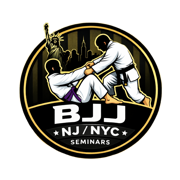
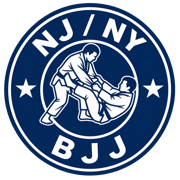
Link seminar flyers and refresh site branding

diff --git a/index.html b/index.html
@@ -6,8 +6,8 @@
   <title>BJJ SEMINARS NJ + NY</title>
   <meta property="og:title" content="BJJ SEMINARS NJ + NY" />
   <meta name="twitter:title" content="BJJ SEMINARS NJ + NY" />
-  <link rel="icon" type="image/png" sizes="32x32" href="favicon-32.png?v=20260815" />
-  <link rel="apple-touch-icon" sizes="180x180" href="apple-touch-icon.png?v=20260815" />
+  <link rel="icon" type="image/png" sizes="32x32" href="favicon-32.png?v=20260823-new-logo" />
+  <link rel="apple-touch-icon" sizes="180x180" href="apple-touch-icon.png?v=20260823-new-logo" />
 
   <script>
     (() => {
@@ -22,12 +22,12 @@
   <link rel="stylesheet" href="assets/css/base.css" />
   <link rel="stylesheet" href="assets/css/layout.css?v=20260813-logo-above-title" />
   <link rel="stylesheet" href="assets/css/pills.css?v=20260515-event-menu">
-  <link rel="stylesheet" href="assets/css/carousel.css?v=20260812-posters" />
-  <link rel="stylesheet" href="assets/css/components.css?v=20260816-header-palette-equal-size" />
+  <link rel="stylesheet" href="assets/css/carousel.css?v=20260823-instagram-links" />
+  <link rel="stylesheet" href="assets/css/components.css?v=20260823-instagram-links" />
   <link rel="stylesheet" href="assets/css/directory.css?v=20260822-responsive-segmented-nav" />
   <link rel="stylesheet" href="assets/css/theme.css?v=20260814-search-panel-2" />
 <!-- IMPORTANT: repo references main.js (no sequence) -->
-  <script type="module" src="assets/js/main.js?v=20260822-disable-page-swipe"></script>
+  <script type="module" src="assets/js/main.js?v=20260823-grappling-events-soon"></script>
 </head>
 
 <body>
@@ -38,7 +38,10 @@
       
       <div class="header__inner siteHeaderInner--title">
         <div class="headerBrand">
-          <div class="header__logoCrop"><img class="header__logoImage" src="logo.png?v=20260814-new-logo" alt="BJJ Seminars NJ + NY" /></div>
+          <div class="header__logoCrop">
+            <img class="header__logoImage header__logoImage--light" src="bjjseminars_newlogo.png?v=20260823-new-logo" alt="BJJ Seminars NJ + NY" />
+            <img class="header__logoImage header__logoImage--dark" src="bjjseminars_newlogo_darkmode.png?v=20260823-new-logo" alt="" aria-hidden="true" />
+          </div>
           <h1 class="header__title" id="viewTitle" aria-label="Current view">EVENTS</h1>
         </div>
 
@@ -58,6 +61,12 @@
 
         <!-- Header social links -->
         <div class="headerSocial" aria-label="Header social links">
+          <a class="headerSocial__link" href="https://github.com/anyjiujitsu/anyjiujitsu.github.io" target="_blank" rel="noopener" aria-label="Any Jiu-Jitsu GitHub repository">
+            <svg class="headerSocial__icon" viewBox="0 0 24 24" aria-hidden="true" focusable="false">
+              <path d="M15 22v-4a4.8 4.8 0 0 0-1-3.5c3.28-.36 6.72-1.61 6.72-7.25A5.65 5.65 0 0 0 19.22 3.3 5.3 5.3 0 0 0 19.08 0S17.9-.36 15 1.48a13.38 13.38 0 0 0-7 0C5.1-.36 3.92 0 3.92 0a5.3 5.3 0 0 0-.14 3.3 5.65 5.65 0 0 0-1.5 3.95c0 5.63 3.44 6.88 6.72 7.25A4.8 4.8 0 0 0 8 18v4"></path>
+              <path d="M8 19c-3 .92-3-1.5-4-2"></path>
+            </svg>
+          </a>
           <a class="headerSocial__link" data-customization-link="instagram" href="#" target="_blank" rel="noopener" aria-label="Instagram profile">
             <!-- Instagram (Feather-style) -->
             <svg class="headerSocial__icon" viewBox="0 0 24 24" aria-hidden="true" focusable="false">
@@ -82,7 +91,6 @@
           <button class="headerMenuButton" id="siteMenuBtn" type="button" aria-haspopup="menu" aria-expanded="false" aria-controls="siteMenu">Menu</button>
         </div>
         <div class="menu siteMenu" id="siteMenu" role="menu" aria-label="Menu" hidden>
-          <button class="menu__item siteMenu__item" type="button" role="menuitem">About</button>
           <a class="menu__item siteMenu__item" href="https://ig.me/m/bjjseminars.nj.ny" target="_blank" rel="noopener noreferrer" role="menuitem">Flyer Request</a>
           <a class="menu__item siteMenu__item" data-customization-link="support" href="https://buymeacoffee.com/jj5ben77" target="_blank" rel="noopener noreferrer" role="menuitem">Buy Me a Coffee</a>
         </div>

diff --git a/assets/js/seminarCarousel.js b/assets/js/seminarCarousel.js
@@ -28,18 +28,21 @@ export function renderSeminarCarousels(root, rows, { onSelect } = {}){
     })
     .sort(sortByDate("desc"));
 
+  const uniqueThisMonth = dedupeCarouselRows(thisMonth);
+  const uniquePrevious = dedupeCarouselRows(previous);
+
   root.replaceChildren(
     buildCarouselSection({
       eyebrow: monthStart.toLocaleDateString("en-US", { month: "long", year: "numeric" }),
       title: "This Month's Seminars",
-      rows: thisMonth,
+      rows: uniqueThisMonth,
       emptyText: "No seminars are listed for this month yet.",
       onSelect,
     }),
     buildCarouselSection({
       eyebrow: "Recent sessions",
       title: "Previous Seminars",
-      rows: previous,
+      rows: uniquePrevious,
       emptyText: "Previous seminars will appear here.",
       onSelect,
     }),
@@ -104,9 +107,16 @@ function buildCarouselSection({ eyebrow, title, rows, emptyText, onSelect }){
 
 function buildSeminarCard(row, onSelect){
   const date = row._date || parseEventDate(row.DATE);
-  const card = document.createElement("button");
+  const source = String(row.SOURCE || "").trim();
+  const card = document.createElement(source ? "a" : "button");
   card.className = "seminarCard";
-  card.type = "button";
+  if(source){
+    card.href = source;
+    card.target = "_blank";
+    card.rel = "noopener noreferrer";
+  } else {
+    card.type = "button";
+  }
 
   const instructor = String(row.FOR || row.NAME || "Seminar").trim() || "Seminar";
   const gym = String(row.GYM || row.WHERE || "Location coming soon").trim() || "Location coming soon";
@@ -115,7 +125,9 @@ function buildSeminarCard(row, onSelect){
   const location = [city, state].filter(Boolean).join(", ");
   const poster = String(row.POSTER || "").trim();
 
-  card.setAttribute("aria-label", `Find ${instructor}, ${formatFullDate(date)}`);
+  card.setAttribute("aria-label", source
+    ? `Open Instagram flyer for ${instructor}, ${formatFullDate(date)}`
+    : `Find ${instructor}, ${formatFullDate(date)}`);
   if(poster){
     card.classList.add("seminarCard--poster");
     card.innerHTML = `
@@ -127,7 +139,7 @@ function buildSeminarCard(row, onSelect){
         <span class="seminarCard__posterPlace">${escapeHtml(gym)} · ${escapeHtml(location)}</span>
       </span>
     `;
-    card.addEventListener("click", () => onSelect?.(row));
+    if(!source) card.addEventListener("click", () => onSelect?.(row));
     return card;
   }
 
@@ -145,8 +157,19 @@ function buildSeminarCard(row, onSelect){
     <span class="seminarCard__action" aria-hidden="true">View <span>→</span></span>
   `;
 
-  card.addEventListener("click", () => onSelect?.(row));
+  if(!source) card.addEventListener("click", () => onSelect?.(row));
   return card;
+}
+
+function dedupeCarouselRows(rows){
+  const seenPosters = new Set();
+  return rows.filter((row) => {
+    const poster = String(row.POSTER || "").trim().toLowerCase();
+    if(!poster) return true;
+    if(seenPosters.has(poster)) return false;
+    seenPosters.add(poster);
+    return true;
+  });
 }
 
 function wireAutoAdvance(viewport, itemCount){

diff --git a/assets/js/data.js b/assets/js/data.js
@@ -25,6 +25,15 @@ function buildSearchText(obj){
   return normalizeSearchText(Object.values(obj).join(" "));
 }
 
+function deriveEventSource(r){
+  const explicit = (r.SOURCE || r.Source || r.INSTAGRAM || r.Instagram || "").trim();
+  if(explicit) return explicit;
+
+  const poster = (r.POSTER || r.Poster || "").trim();
+  const repostMatch = poster.match(/\/reposts\/\d+-([^/]+?)\.[a-z0-9]+$/i);
+  return repostMatch ? `https://www.instagram.com/p/${repostMatch[1]}/` : "";
+}
+
 /* section: directory normalization | purpose: standardize directory rows */
 export function normalizeDirectoryRow(r){
   const STATE = (r.STATE || "").trim().toUpperCase();
@@ -32,6 +41,7 @@ export function normalizeDirectoryRow(r){
   const NAME  = (r.NAME || "").trim();
   const IG    = (r.IG || "").trim();
   const WEBSITE = (r.WEBSITE || r.Website || "").trim();
+  const ADDRESS = (r.ADDRESS || r.Address || "").trim();
   const SAT   = (r.SAT || "").trim();
   const SUN   = (r.SUN || "").trim();
   const OTA   = (r.OTA || "").trim().toUpperCase(); // Y / N / blank
@@ -42,7 +52,7 @@ export function normalizeDirectoryRow(r){
   const lat = LAT === "" ? NaN : Number(LAT);
   const lon = LON === "" ? NaN : Number(LON);
 
-  const row = { STATE, CITY, NAME, IG, WEBSITE, SAT, SUN, OTA, LAT: lat, LON: lon };
+  const row = { STATE, CITY, NAME, IG, WEBSITE, ADDRESS, SAT, SUN, OTA, LAT: lat, LON: lon };
 
   return {
     ...row,
@@ -61,12 +71,13 @@ export function normalizeEventRow(r){
   const TYPE    = (r.TYPE || r.Event || r.EVENT || "").trim();
   const DATE    = (r.DATE || r.Date || "").trim();
   const CREATED = (r.CREATED || r.Created || "").trim();
+  const SOURCE  = deriveEventSource(r);
   const LAT = (r.LAT ?? r.Lat ?? "").toString().trim();
   const LON = (r.LON ?? r.Lon ?? r.LONG ?? r.Long ?? "").toString().trim();
   const lat = LAT === "" ? NaN : Number(LAT);
   const lon = LON === "" ? NaN : Number(LON);
 
-  const row = { YEAR, STATE, CITY, GYM, TYPE, DATE, CREATED, LAT: lat, LON: lon };
+  const row = { YEAR, STATE, CITY, GYM, TYPE, DATE, CREATED, SOURCE, LAT: lat, LON: lon };
   const parsedDate = parseEventDate(DATE);
   const parsedCreated = parseCreatedDate(CREATED);
 

diff --git a/assets/js/render.js b/assets/js/render.js
@@ -246,6 +246,7 @@ function renderIndexEventRow(r){
   c3.innerHTML = `
     <div class="cell__top cell__city">${escapeHtml(r.CITY || "—")}</div>
     <div class="cell__sub cell__state">${escapeHtml(r.STATE || "—")}</div>
+    ${r.ADDRESS ? `<div class="cell__sub cell__address">${escapeHtml(r.ADDRESS)}</div>` : ""}
   `;
 
   const c4 = document.createElement("div");
@@ -301,6 +302,8 @@ function renderEventGroup(root, groupTuple, dir, isPast=false){
 function renderEventRow(r){
   const row = document.createElement("div");
   row.className = "row row--events";
+  const sourceUrl = String(r.SOURCE || "").trim();
+  const athleteName = escapeHtml(r.FOR || "—");
 
   const rawDate = String(r.DATE ?? "").trim();
   const parsed = r._date || (rawDate ? parseEventDate(rawDate) : null);
@@ -348,7 +351,7 @@ function renderEventRow(r){
       <span class="cell__eventInline">${escapeHtml(r.EVENT || "—")}</span>
       ${showNew ? `<span class="cell__newInline">*NEW</span>` : `<span class="cell__newInline">&nbsp;</span>`}
     </div>
-    <div class="cell__top cell__for">${escapeHtml(r.FOR || "—")}</div>
+    <div class="cell__top cell__for">${sourceUrl ? `<a class="cell__forLink" href="${escapeHtml(sourceUrl)}" target="_blank" rel="noopener noreferrer">${athleteName}</a>` : athleteName}</div>
     <div class="cell__sub cell__where">${escapeHtml(getWhereText(r))}</div>
   `;
 
@@ -370,6 +373,22 @@ function renderEventRow(r){
   row.appendChild(c2);
   row.appendChild(c3);
   row.appendChild(c4);
+  if(sourceUrl){
+    row.classList.add("row--source");
+    row.tabIndex = 0;
+    row.setAttribute("role", "link");
+    row.setAttribute("aria-label", `Open Instagram flyer for ${r.FOR || "seminar"}`);
+    const openSource = () => window.open(sourceUrl, "_blank", "noopener,noreferrer");
+    row.addEventListener("click", (event) => {
+      if(event.target instanceof Element && event.target.closest("a, button")) return;
+      openSource();
+    });
+    row.addEventListener("keydown", (event) => {
+      if(event.key !== "Enter") return;
+      event.preventDefault();
+      openSource();
+    });
+  }
   return row;
 }
 

diff --git a/assets/js/main.js b/assets/js/main.js
@@ -1,19 +1,19 @@
 // main.js
 // purpose: app bootstrap + data loading + render orchestration
 
-import { loadCSV, normalizeDirectoryRow, normalizeEventRow } from "./data.js?v=20260731-websites";
+import { loadCSV, normalizeDirectoryRow, normalizeEventRow } from "./data.js?v=20260823-instagram-links";
 import { state, setIndexQuery, setEventsQuery, setIndexEventsQuery, setIndexDistanceMiles, setIndexDistanceFrom, setEventsDistanceMiles, setEventsDistanceFrom } from "./state.js?v=20260813-index-regions";
 import { filterEvents } from "./filters.js?v=20260210-911";
-import { renderEventsGroups, renderIndexEventsGroups } from "./render.js?v=20260731-websites";
-import { renderSeminarCarousels } from "./seminarCarousel.js?v=20260812-instagram-archive";
+import { renderEventsGroups, renderIndexEventsGroups } from "./render.js?v=20260823-instagram-links";
+import { renderSeminarCarousels } from "./seminarCarousel.js?v=20260823-instagram-links";
 
 import { $ } from "./utils/dom.js?v=20260210-911";
 import { applyDistanceFilter } from "./utils/geo.js?v=20260212-902";
-import { initEventsPills, initIndexPills } from "./ui/pills.js?v=20260813-dual-area-selection";
+import { initEventsPills, initIndexPills } from "./ui/pills.js?v=20260823-grappling-events-soon";
 import { wireSearch, wireSearchSuggestions } from "./ui/search.js?v=20260427-eventszip-directapply";
 import { closePricingPopup, wirePricingPopup } from "./ui/pricing.js";
 import { activeEventsState, setActiveEventsQuery, setViewUI, syncActiveViewHeight, wireViewToggle } from "./ui/viewToggle.js?v=20260822-disable-page-swipe";
-import { dirToIndexEventRow, ensureDistanceOriginOptions, filterIndexDirectoryAsEvents, syncDistanceUIFromState } from "./indexDirectory.js?v=20260813-dual-area-selection";
+import { dirToIndexEventRow, ensureDistanceOriginOptions, filterIndexDirectoryAsEvents, syncDistanceUIFromState } from "./indexDirectory.js?v=20260823-gym-address";
 
 let directoryRows = [];
 let eventRows = [];

diff --git a/assets/css/components.css b/assets/css/components.css
@@ -81,6 +81,18 @@
   height: auto;
 }
 
+.header__logoImage--dark{
+  display: none !important;
+}
+
+:root[data-theme="dark"] .header__logoImage--light{
+  display: none;
+}
+
+:root[data-theme="dark"] .header__logoImage--dark{
+  display: block !important;
+}
+
 @media (max-width: 560px){
   .header__logoCrop{
     width: 38px;
@@ -374,10 +386,13 @@ line-height: 1;
 .row:first-child{ border-top: 0; }
 
 .cell__name{ font-weight: 800; }
+.cell__forLink{ color: inherit; text-decoration: underline; text-decoration-thickness: 1px; text-underline-offset: 2px; }
+.row--source{ cursor: pointer; }
 .cell__ig{ font-size: calc(var(--rowFont) - 2px); color: var(--muted); margin-top: 2px; }
 
 .cell__city{ font-weight: 800; }
 .cell__state{ font-size: calc(var(--rowFont) - 2px); color: var(--muted); margin-top: 2px; text-transform: uppercase; letter-spacing: 0.06em; }
+.cell__address{ font-size: calc(var(--rowFont) - 4px); color: var(--muted); line-height: 1.25; margin-top: 3px; }
 
 .cell__days{ font-weight: 800; text-align: right; }
 .cell__ota{ font-size: calc(var(--rowFont) - 2px); color: var(--muted); margin-top: 2px; text-align: right; }

diff --git a/admin/index.html b/admin/index.html
@@ -4,6 +4,8 @@
   <meta charset="utf-8" />
   <meta name="viewport" content="width=device-width, initial-scale=1, maximum-scale=1, user-scalable=no, viewport-fit=cover" />
   <title>BJJ SEMINARS NJ + NY - Admin</title>
+  <link rel="icon" type="image/png" sizes="32x32" href="../favicon-32.png?v=20260823-new-logo" />
+  <link rel="apple-touch-icon" sizes="180x180" href="../apple-touch-icon.png?v=20260823-new-logo" />
 
   <!-- Reuse main-site CSS (no cache-busting; you manage cache manually) -->
   <link rel="stylesheet" href="../assets/css/tokens.css" />
@@ -29,7 +31,7 @@
       <div aria-label="Site logo" class="adminLogoRow" data-customization-logo-label>
         <div class="header__inner adminHeaderInner adminHeaderInner--logo">
           <div class="header__logoCrop">
-            <img class="header__logoImage" src="../logo.png" alt="Site logo" data-customization-logo-alt />
+            <img class="header__logoImage" src="../logo.png?v=20260823-new-logo" alt="Site logo" data-customization-logo-alt />
           </div>
         </div>
       </div>

diff --git a/assets/js/ui/pills.js b/assets/js/ui/pills.js
@@ -11,6 +11,7 @@ const EVENT_AREA_OPTIONS = Object.freeze(["NEW JERSEY", "NYC"]);
 const INDEX_AREA_OPTIONS = Object.freeze(["NEW JERSEY", "NEW YORK"]);
 const EVENT_TYPE_OPTIONS = Object.freeze([
   { value: "Seminar", label: "Seminars" },
+  { value: "Grappling Event", label: "Grappling Events (Coming Soon...)", disabled: true },
 ]);
 
 function configuredAreas(){
@@ -106,7 +107,10 @@ function buildMenuList(panelEl, items, selectedSet, onToggle){
 
     const row = document.createElement('label');
     row.className = 'menu__item menu__item--check';
-    if(disabled) row.classList.add('menu__item--disabled');
+    if(disabled){
+      row.classList.add('menu__item--disabled');
+      row.setAttribute('aria-disabled', 'true');
+    }
 
     const cb = document.createElement('input');
     cb.type = 'checkbox';

diff --git a/assets/js/indexDirectory.js b/assets/js/indexDirectory.js
@@ -6,6 +6,7 @@ export function dirToIndexEventRow(r){
     EVENT: "Drop Ins:",
     FOR: r.NAME || "",
     WEBSITE: r.WEBSITE || "",
+    ADDRESS: r.ADDRESS || "",
     WHERE: r.IG || "",
     CITY: r.CITY || "",
     STATE: r.STATE || "",
@@ -19,7 +20,7 @@ export function dirToIndexEventRow(r){
 
   row.hasSat = !!String(row.DAY || "").trim();
   row.hasSun = !!String(row.DATE || "").trim();
-  row.searchText = [row.EVENT, row.FOR, row.WEBSITE, row.WHERE, row.CITY, row.STATE, row.DAY, row.DATE, row.OTA].join(" ").toLowerCase();
+  row.searchText = [row.EVENT, row.FOR, row.WEBSITE, row.WHERE, row.ADDRESS, row.CITY, row.STATE, row.DAY, row.DATE, row.OTA].join(" ").toLowerCase();
   return row;
 }
 

diff --git a/assets/css/carousel.css b/assets/css/carousel.css
@@ -104,6 +104,8 @@
   cursor: pointer;
   scroll-snap-align: start;
   text-align: left;
+  text-decoration: none;
+  font: inherit;
 }
 
 .seminarCard::after{
